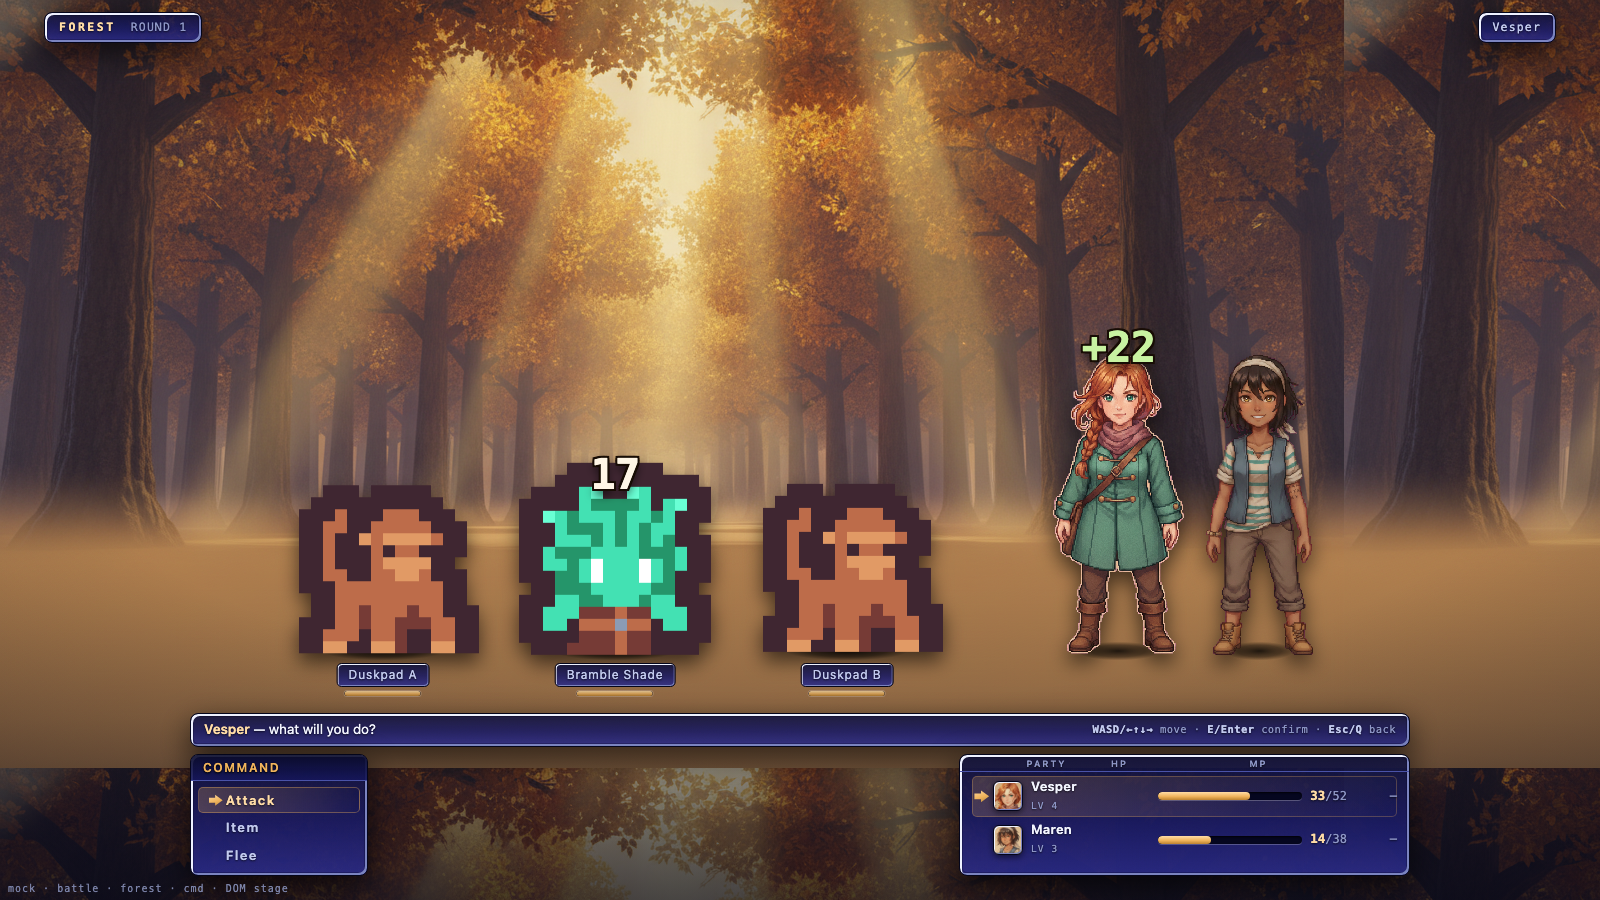
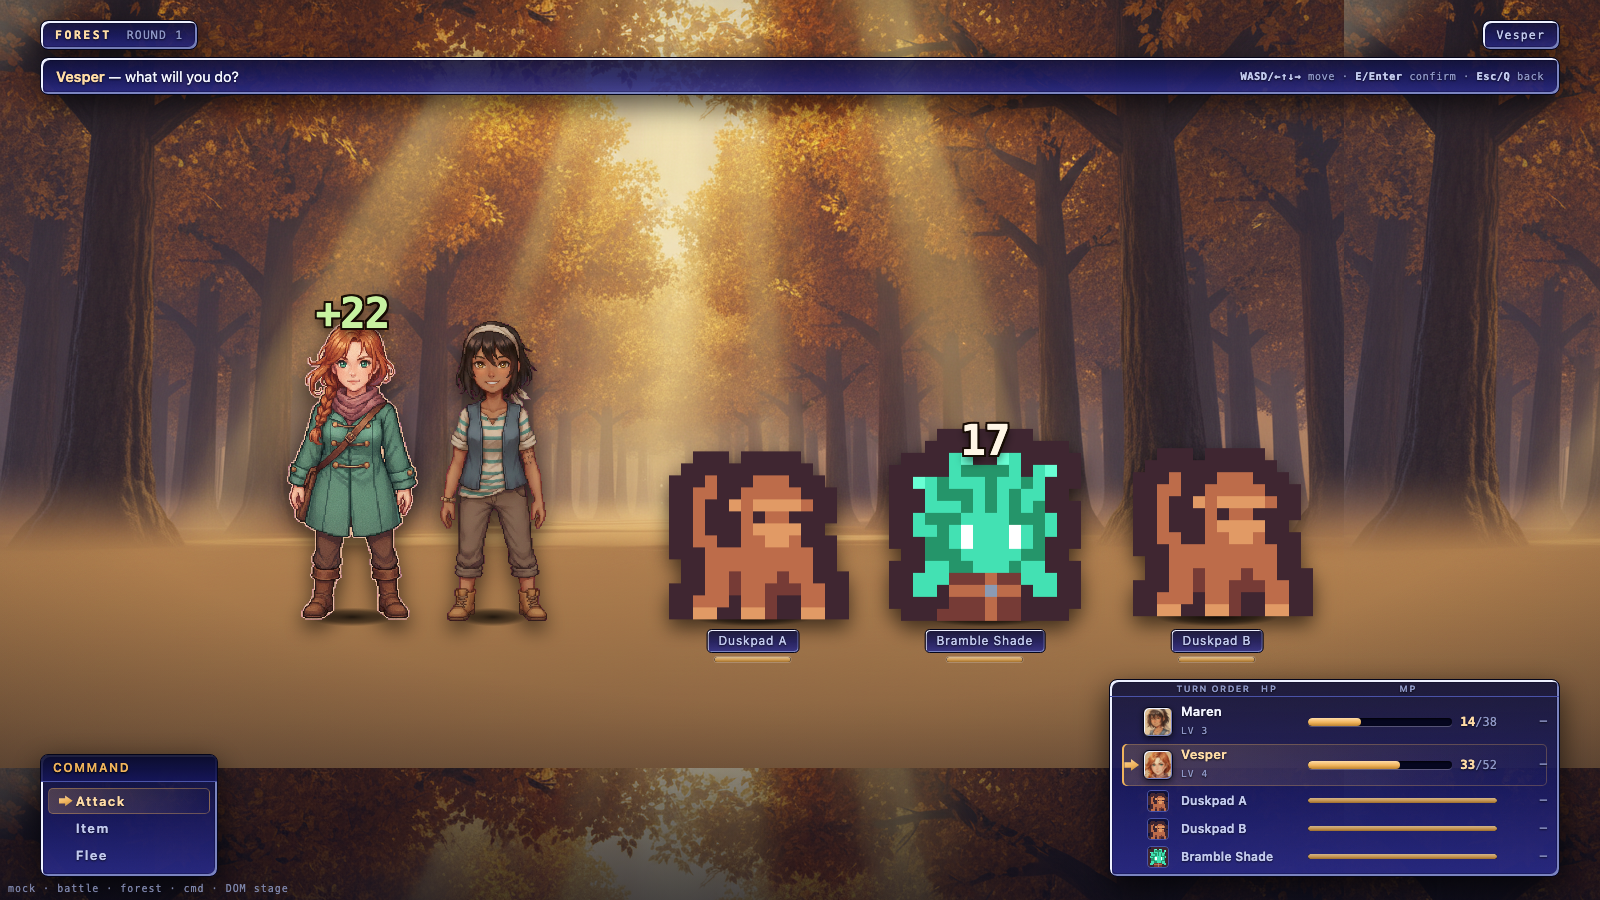
board: the turn queue, photographed, and the DOM stage re-shot mirrored
turn-queue.png is the panel at a glance: party rows primary with busts and
gauges, foe rows slim with their sprite thumbnails, columns aligned down both
kinds, and Vesper lit with the arrow and rail as the one being decided for.
fallback-4 re-shot because the DOM stage mirrors too — party left, foes right,
same top message line, same band, same queue, so the two stages never disagree
about which side you are on.

Also: "TURN ORDER" was wrapping to two lines. It is a label, not data, so it
overflows into the gap beside it rather than growing the column and pushing every
row's measures around.

Claude-Session: https://claude.ai/code/session_0167y2C6G8Y88kT3ecx1yj7h

diff --git a/public/js/battle_turnbased.js b/public/js/battle_turnbased.js
@@ -251,6 +251,10 @@
 .ebb-phead{padding:4px 12px 3px;border-bottom:1px solid var(--eb-rule);
   font:600 9px/1 var(--eb-face);letter-spacing:.2em;color:var(--eb-ink-faint)}
 .ebb-phead .r{text-align:right}
+/* "TURN ORDER" is wider than its column and was wrapping to two lines; it is a
+   label, not data, so it may overflow into the gap beside it rather than grow
+   the column and push every row's measures around. */
+.ebb-phead span:nth-child(3){white-space:nowrap;letter-spacing:.14em;overflow:visible}
 .ebb-party{padding:4px 12px 6px;display:flex;flex-direction:column;gap:2px;flex:1 1 auto}
 .ebb-prow{position:relative;padding:3px 0;border-radius:5px}
 .ebb-prow.cur{background:linear-gradient(90deg,#f0b45c33,#f0b45c0f 70%,#f0b45c00);

diff --git a/docs/qa/battle3d/README.md b/docs/qa/battle3d/README.md
@@ -28,6 +28,34 @@ The mock is still the right tool for the WINDOWS — `tools/ui_mock.html` with
 `?stage=dom` or `?kill=` parks the UI where it can be photographed cheaply, which
 is what the fallback board below is.
 
+## The turn queue (`turn-queue.png`)
+
+The bottom-right panel is an ever-updating queue of whose turn comes next,
+monsters included — the panel that lets the player plan.
+
+Its order is **never computed by the widget**: it comes from `Battle.queueFeed`,
+whose default asks the kernel's `rules.order(state)` — the same function the
+commit-then-resolve scheduler ranks its collected actions by. Displayed order is
+resolution order by construction, not by two computations agreeing. Verified
+against a live battle: the kernel said *Duskpad A, Duskpad B, Vesper, Bramble
+Shade*, and the queue consumed in exactly that order, each actor greying to the
+tail as it went, resetting on the next round.
+
+- **Decision phase** shows the round's projected resolution order — you choose
+  knowing who moves before you do. The character being decided for carries the
+  arrow and the amber rail (Vesper, in the shot).
+- **Resolution** consumes from the top; acted combatants sink greyed to the
+  round's tail rather than vanishing, so the shape of the round stays readable.
+- **A KO exits its row immediately**, free: `order()` returns the living only.
+- Party rows stay primary (bust, name, LV, HP gauge with numerals, reserved MP);
+  foe rows are slimmer on the SAME grid so the columns line up, and carry the
+  monster's 16px sprite as a pixelated thumbnail plus the same name the field tag
+  shows, so panel and field agree about which Duskpad is which.
+
+**Swapping the scheduler swaps the feed, not the widget.** A future ATB policy
+sets `Battle.queueFeed` to one predicting from gauge fill instead of spd order,
+returns the same `{id, acted}` shape, and this panel needs no edit.
+
 ## Layout and mirror, verified in the live DOM
 
 Read out of a `--dump-dom` of the running mock rather than eyeballed:
@@ -49,7 +77,7 @@ chain verified, not asserted.
 | `fallback-1-party-billboard.png` | `view=battle&zone=meadow&group=duskpad,reed-nibbler&kill=partyModel&state=cmd` | Vesper and Maren as their **chroma-keyed pose plates** on camera-facing planes, bottom-anchored on the arena floor with blob shadows. THE RULED 2D-IN-3D PATH, and how every future character appears before their model exists. Foes still on their GLBs. |
 | `fallback-2-foe-pixel-billboard.png` | `view=battle&zone=forest&group=duskpad,bramble-shade&kill=foeModel&state=cmd` | the monsters fall past the (empty) hi-res plate directory to the **16px pixel sprites**, billboarded, NearestFilter so they stay crisp. Party still on rogue.glb. |
 | `fallback-3-proxy-solids.png` | `view=battle&zone=crag&group=scree-shell,weir-eel&kill=foeModel,billboard,partyModel&state=cmd` | everything on **procedural proxy solids** — the family-palette shapes for monsters, a mannequin for the party. This is the ~200 ms state at the start of every battle while a 3.5 MB rig parses. |
-| `fallback-4-dom-stage.png` | `view=battle&zone=forest&stage=dom&state=cmd` (= `Battle.stage3d=false`, exactly what a page with no WebGL produces) | **the entire v2 DOM stage, unchanged** — one row, flat sprites, plate behind. The look the ruling rejected, kept as the no-WebGL floor. |
+| `fallback-4-dom-stage.png` | `view=battle&zone=forest&stage=dom&state=cmd` (= `Battle.stage3d=false`, exactly what a page with no WebGL produces) | the DOM stage — flat sprites on the plate, no arena. It MIRRORS with the arena (party left, foes right) and carries the same top message line, bottom band and turn queue, so the two stages never disagree about which side you are on. |
 
 `?kill=` accepts `partyModel,foeModel,billboard,plate` in any combination.
 
